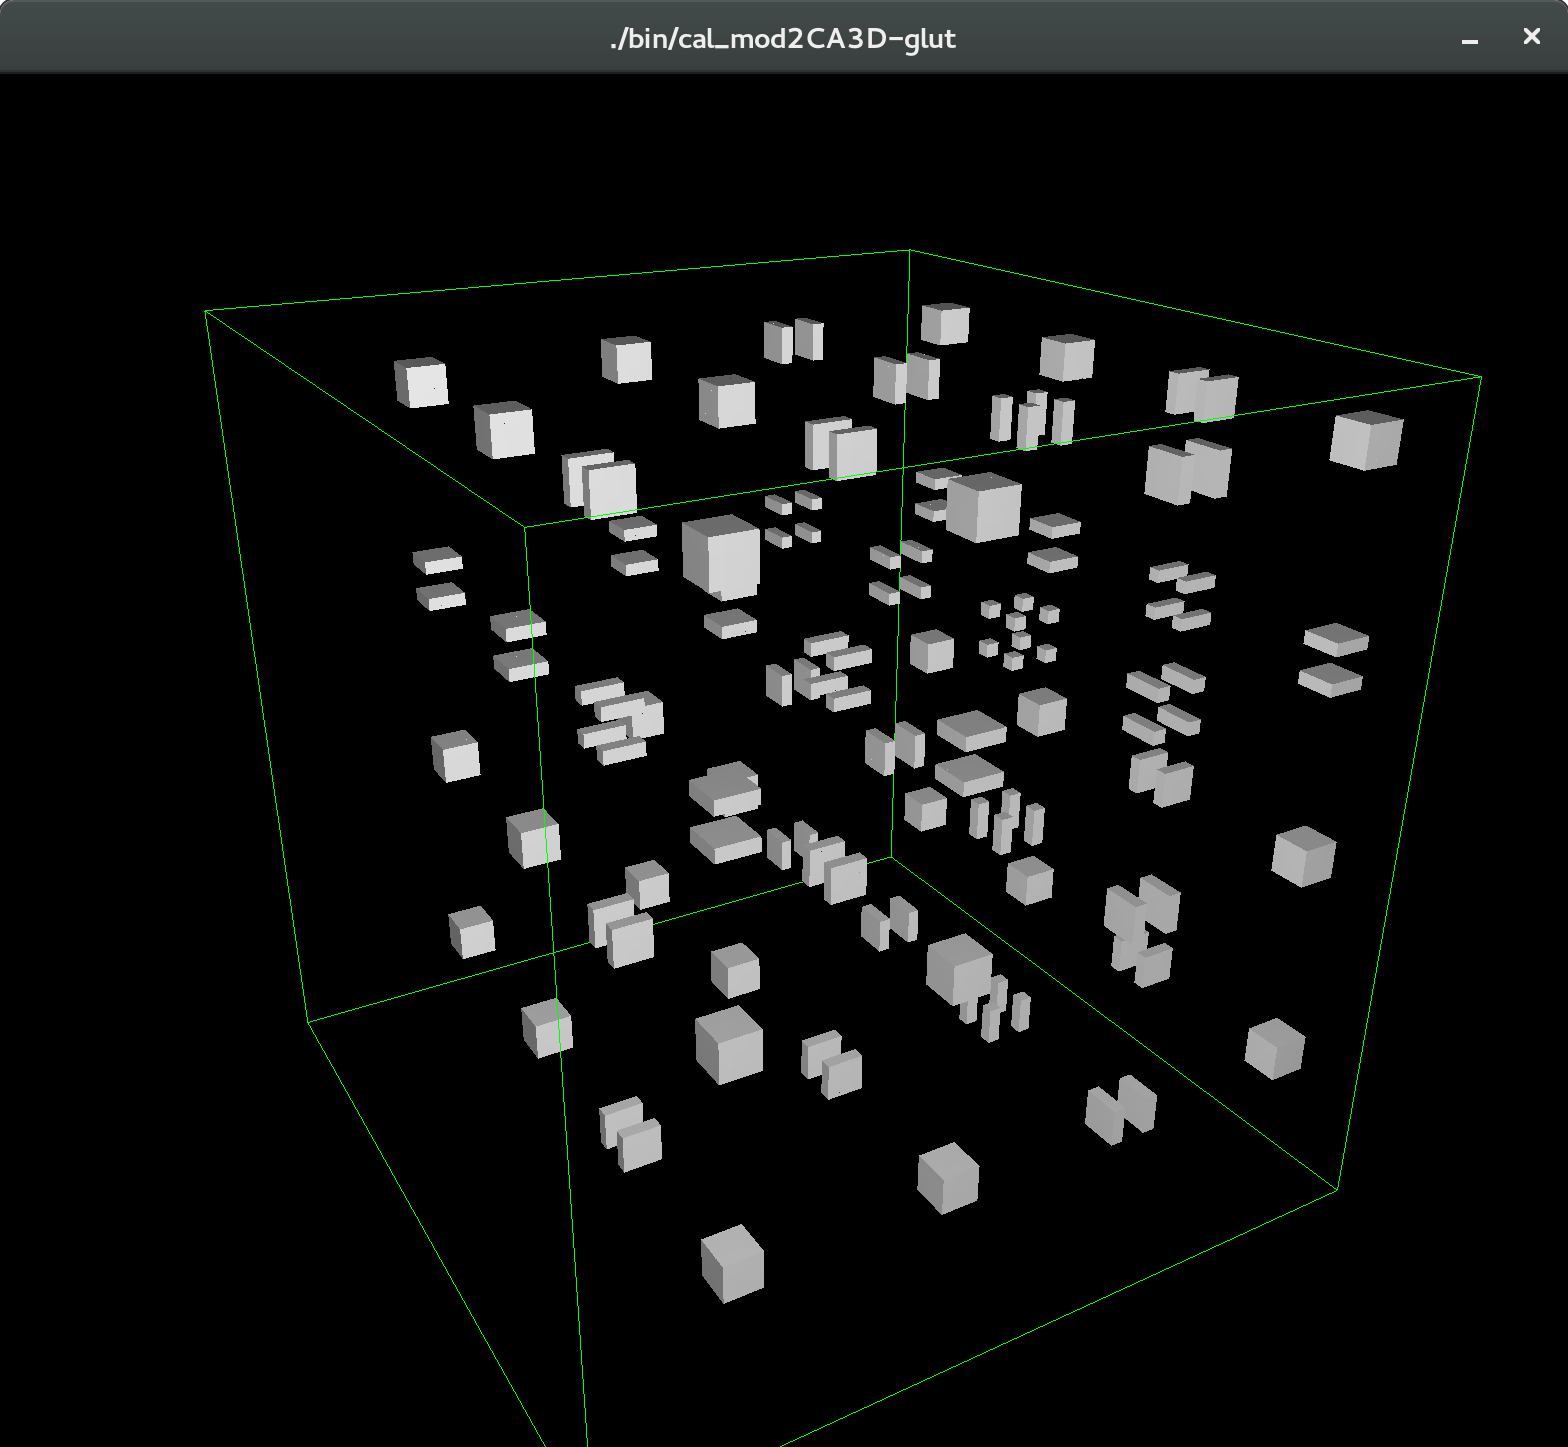
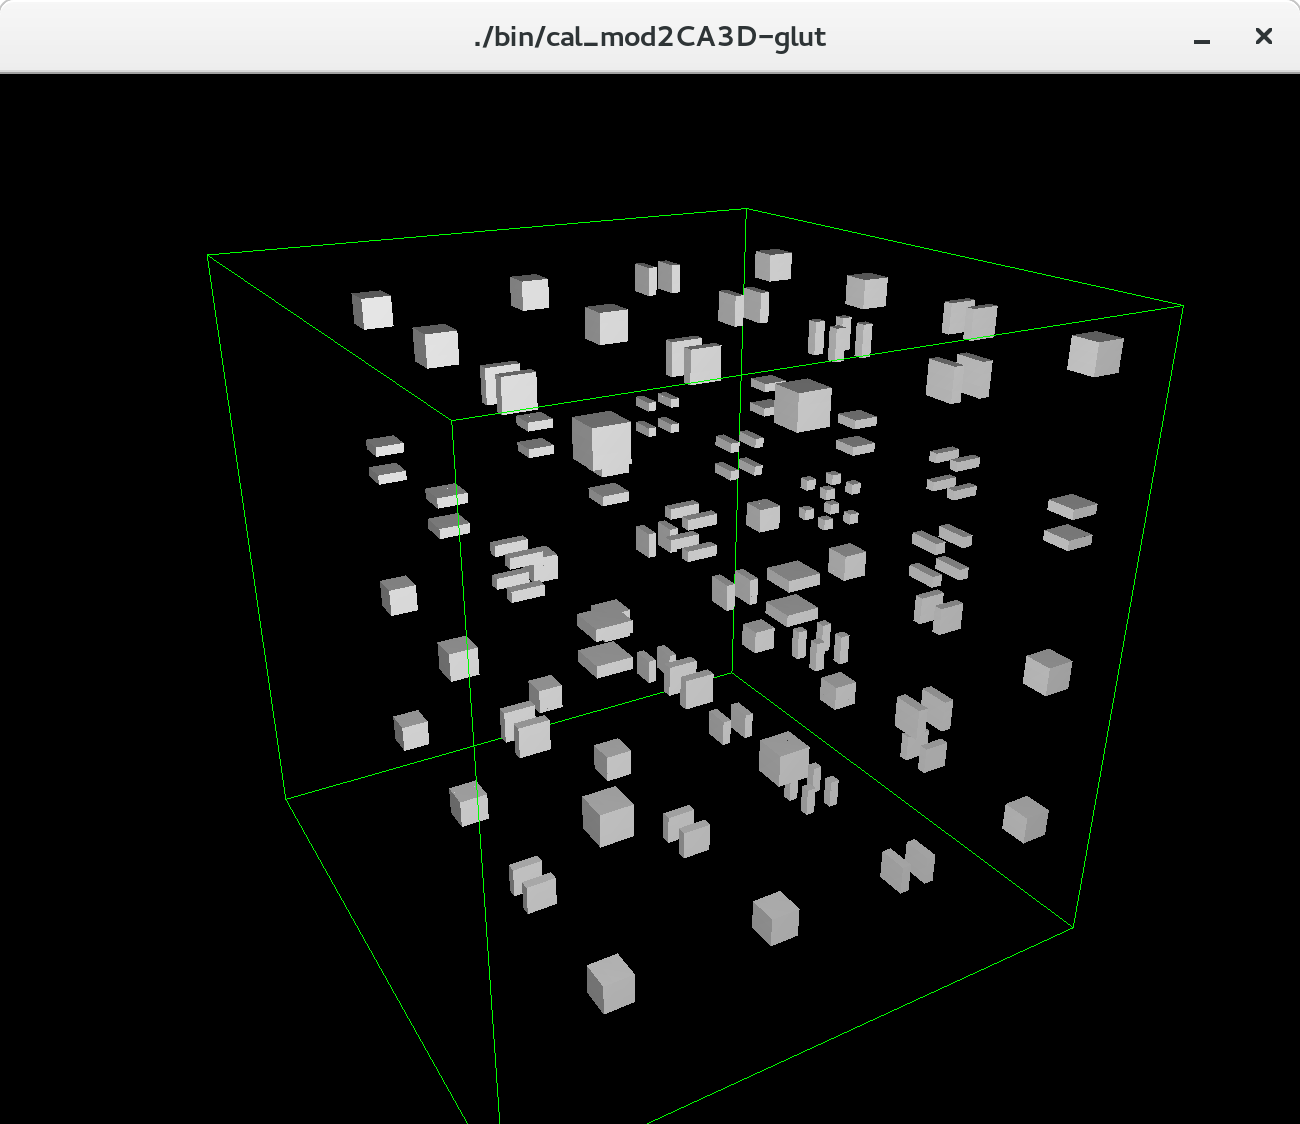
Chapter OpenCAL competed and other minor modifications

diff --git a/OpenCAL.tex b/OpenCAL.tex
@@ -1298,7 +1298,7 @@ and final configuration of \emph{mod2} 3D CA as implemented in Listing
 \end{figure}
 
 
-\section{Combining OpenCAL and OpenCAL-GL}
+\section{Combining OpenCAL and OpenCAL-GL}\label{sec:combining_gl}
 
 In this section, we will show how you can combine the OpenCAL and
 OpenCAL-GL libraries to have an immediate graphic output of your
@@ -1515,15 +1515,101 @@ row indices belonging to the interval [100, 150] from vialualization.
 
 \subsection{Implementing the \emph{mod2} CA in OpenCAL and OpenCAL-GL}
 
+As for the previous example in which we re-proposed the SciddicaT CA
+application enriched by a 3D viever, here we re-propose the
+\emph{mod2} CA application to which we added an OpenCAL-GL viewer. The
+complete source code is shown in Listing \ref{lst:calgl_mod2}, for the
+sake of completeness, while Figure \ref{fig:calgl_mod2} shows a
+screenshot of the application.
 
-\section{OpenCAL Global Functions}
+\lstinputlisting[label=lst:calgl_mod2, caption=An OpenCAL
+  implementation of the mod2 3D CA with openCAL-GL graphic
+  output.]{../opencal/OpenCAL-GL/examples/calgl_mod2CA3D/source/mod2CA.c}
+
+\begin{figure}
+  \begin{center}
+    \includegraphics[width=12cm]{./images/OpenCAL/calgl_mod2}
+    \caption{Screenshot of the \emph{mod2} 3D CA viewer based on
+      OpenCAL-GL.}
+    \label{fig:calgl_mod2}
+  \end{center}
+\end{figure}
+
+As you can see, here we consider the 3D implementation of
+OpenCAL-GL. In fact, the \verb'OpenCAL-GL/calgl3D.h' and
+\verb'OpenCAL-GL/calgl3DWindow.h' headers are included and the
+OpenCAL-GL functions, already seen in the 2D version into the previous
+section, are present in the 3D form (see, e.g., the
+\verb'calglAddToDrawModel3Db()' function at line 80). They are
+completely equivalents to the 2D version.  Eventually, note that lines
+86-91 are commented. If you remove the comment, you will cut down some
+parts of the cellular space form visualization.
+
+
+\section{OpenCAL Global Functions}\label{sec:redution}
 
 OpenCAL comes with some functions you can use to perform global
-operation over the cellular space. They essentially are reduction
+operations over the cellular space. They essentially are reduction
 function. Note that such functions should not used within elementary
 processes, but only in the initialization, steering and stop condition
-functions. The proper use of global functions is your own
+callback functions. The proper use of global functions is your own
 responsibility.
 
 In ordert to use global functions in your application, simply include
-the XXXXXX. Table YYYYYY lists the OpenCALì's global functions.
+the \verb'cal2DReduction.h' header file for 2D CA, or
+\verb'cal3DReduction.h' for 3D CA. Table \ref{tab:reductions} lists
+the OpenCAL's global functions. All of theese functions accepts a
+pointer to a CA object as first paramenter, a pointer to a substate
+over which execute the global operation as second parameter and return
+the value corresponding to the executed reduction. For instance, if
+you want to know the maximum value of the substate \verb'Q.h' of the
+SciddicaT CA, you can write something like the code in Listing
+\ref{lst:reduction_example}.
+
+
+
+\begin{table}
+  \centering
+  \footnotesize
+  \begin{tabular}{l|l}
+    \hline
+    Reduction Functions & Meaning \\
+    \hline
+    \hline
+    \verb'calReductionComputeMax2Dr()'       & Return the maximum value\\
+    \verb'calReductionComputeMin2Dr()'       & Return the minimun value\\
+    \verb'calReductionComputeSum2Dr()'       & Return the sum of all substate's elements\\
+    \verb'calReductionComputeProd2Dr()'      & Return the product of all substate's elements\\
+    \verb'calReductionComputeLogicalAnd2Dr'  & Return the logical AND of all substate's elements\\
+    \verb'calReductionComputeBinaryAnd2Dr()' & Return the binary AND of all substate's elements\\
+    \verb'calReductionComputeLogicalOr2Dr()' & Return the logical OR of all substate's elements\\
+    \verb'calReductionComputeBinaryOr2Dr()'  & Return the binary OR of all substate's elements\\
+    \verb'alReductionComputeLogicalXor2Dr()' & Return the logical AND of all substate's elements\\
+    \verb'calReductionComputeBinaryXor2Dr()' & Return the binary AND of all substate's elements\\
+    \hline
+  \end{tabular}
+  \caption{OpenCAL's global reduction functions for 2D CA and
+    substates containing floating point values. In order to obtain the
+    corresponding functions for 3D CA, you need to change 2D in 3D
+    into the functions' suffix, while to obtain the equivalent
+    versions for the other supported basic data types, change the last
+    suffix character from r to b or i, for CALbyte- or CALint-based
+    substates, respectively.}
+  \label{tab:reductions}
+\end{table} 
+
+
+\begin{lstlisting}[float,floatplacement=H, label=lst:reduction_example, caption=An example of global reduction operation., numbers=none]
+  // ...
+  #include <cal2DReduction.h>
+  
+  // ...
+  void sciddicaTSteering(struct CALModel2D* sciddicaT)
+  {
+    CALreal max_width;
+    max_width = calReductionComputeMax2Dr(sciddicaT, Q.h);
+    //...
+  }
+
+  // ...
+\end{lstlisting}

diff --git a/OpenCAL-OMP.tex b/OpenCAL-OMP.tex
@@ -307,3 +307,16 @@ only safe operations, is almost identical to the serial one. As for the case of 
 differences can be found at lines 3-5 where, instead of including the
 OpenCAL header files, we included the OpenCAL-OMP headers. All the
 remaining source code is unchanged.
+
+\section{Combining OpenCAL-OMP and OpenCAL-GL and  Global Functions}
+
+As for OpenCAL, it is possible to exploit OpenCAL-GL to have a simple
+visualization system by adding few lines of code to your
+application. Combining OpenCAL-OMP and OpenCAL-GL does not differ from
+what we have done in Section \ref{sec:combining_gl} for OpenCAL and
+OpenCAL-GL. Therefore, we remand you to that section for majour
+details.
+
+Similarly, you can use the same global reduction functions
+described in Section \ref{sec:redution} also in OpenCAL-OMP.  Plese
+refer to that section for further details.

diff --git a/OpenCAL-CL.tex b/OpenCAL-CL.tex
@@ -321,4 +321,17 @@ value of the substate Q for the central cell.
   to implement the Conway's game of Life elementary
   process.]{../opencal/OpenCAL-CL/examples/calcl_life/kernel/source/life.cl}
 
- 
+
+
+\section{Combining OpenCAL-OMP and OpenCAL-GL and  Global Functions}
+
+As for OpenCAL, it is possible to exploit OpenCAL-GL to have a simple
+visualization system by adding few lines of code to your
+application. Combining OpenCAL-CL and OpenCAL-GL does not differ from
+what we have done in Section \ref{sec:combining_gl} for OpenCAL and
+OpenCAL-GL. Therefore, we remand you to that section for majour
+details.
+
+Similarly, you can use the same global reduction functions
+described in Section \ref{sec:redution} also in OpenCAL-CL.  Plese
+refer to that section for further details.

diff --git a/opencal-userguide.tex b/opencal-userguide.tex
@@ -275,13 +275,11 @@
 \pagenumbering{arabic}
 
 \input{introduction.tex}
-\input{quickstart.tex}
 \input{installation.tex}
 \input{CellularAutomata.tex}
 \input{OpenCAL.tex}
 \input{OpenCAL-OMP.tex}
 \input{OpenCAL-CL.tex}
-%\input{OpenCAL-GL.tex}
 
 %\backmatter
 
